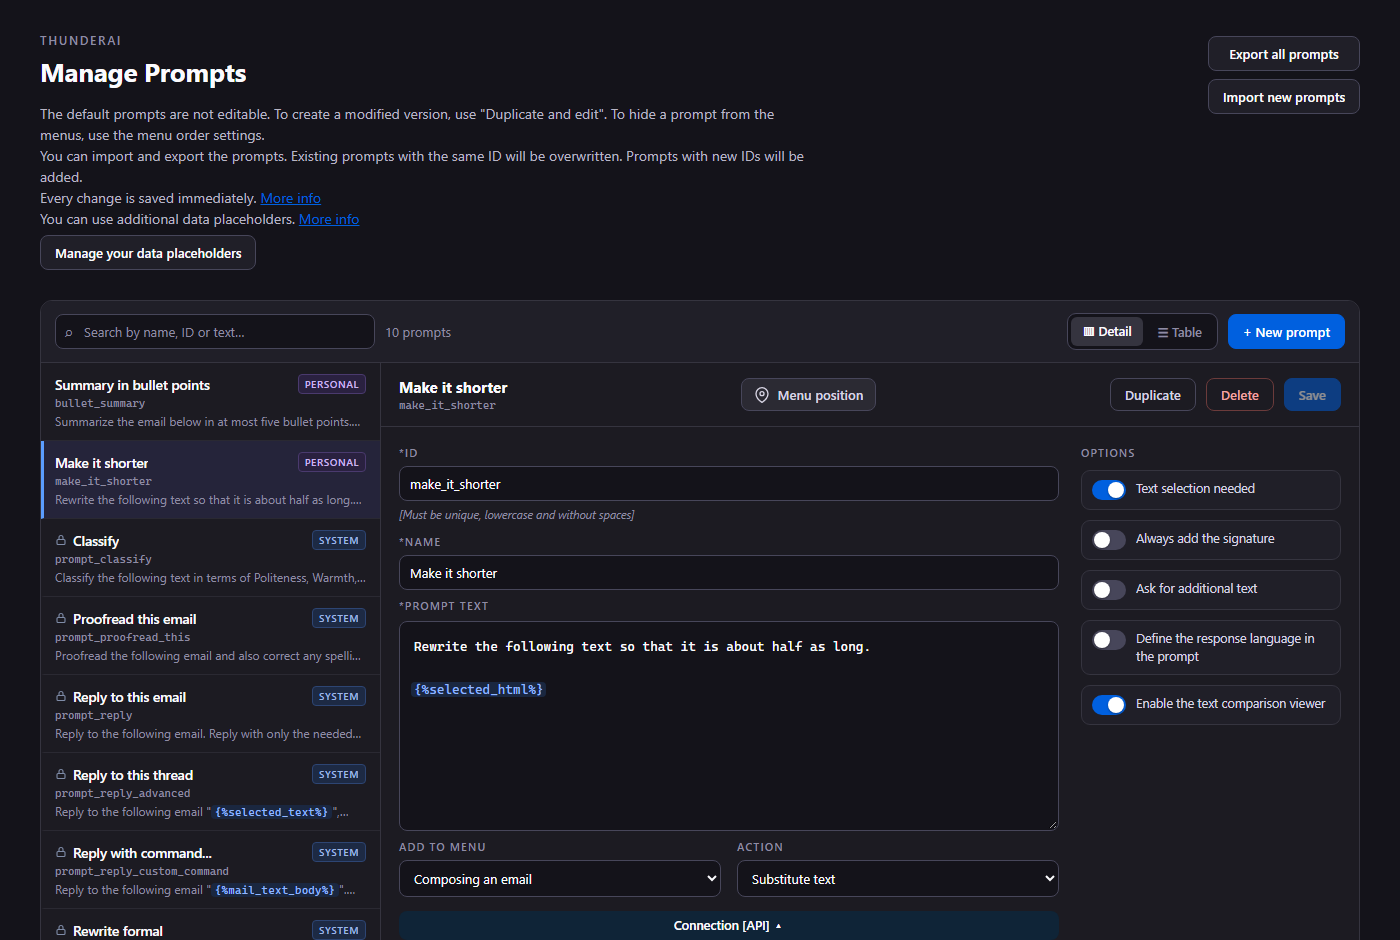
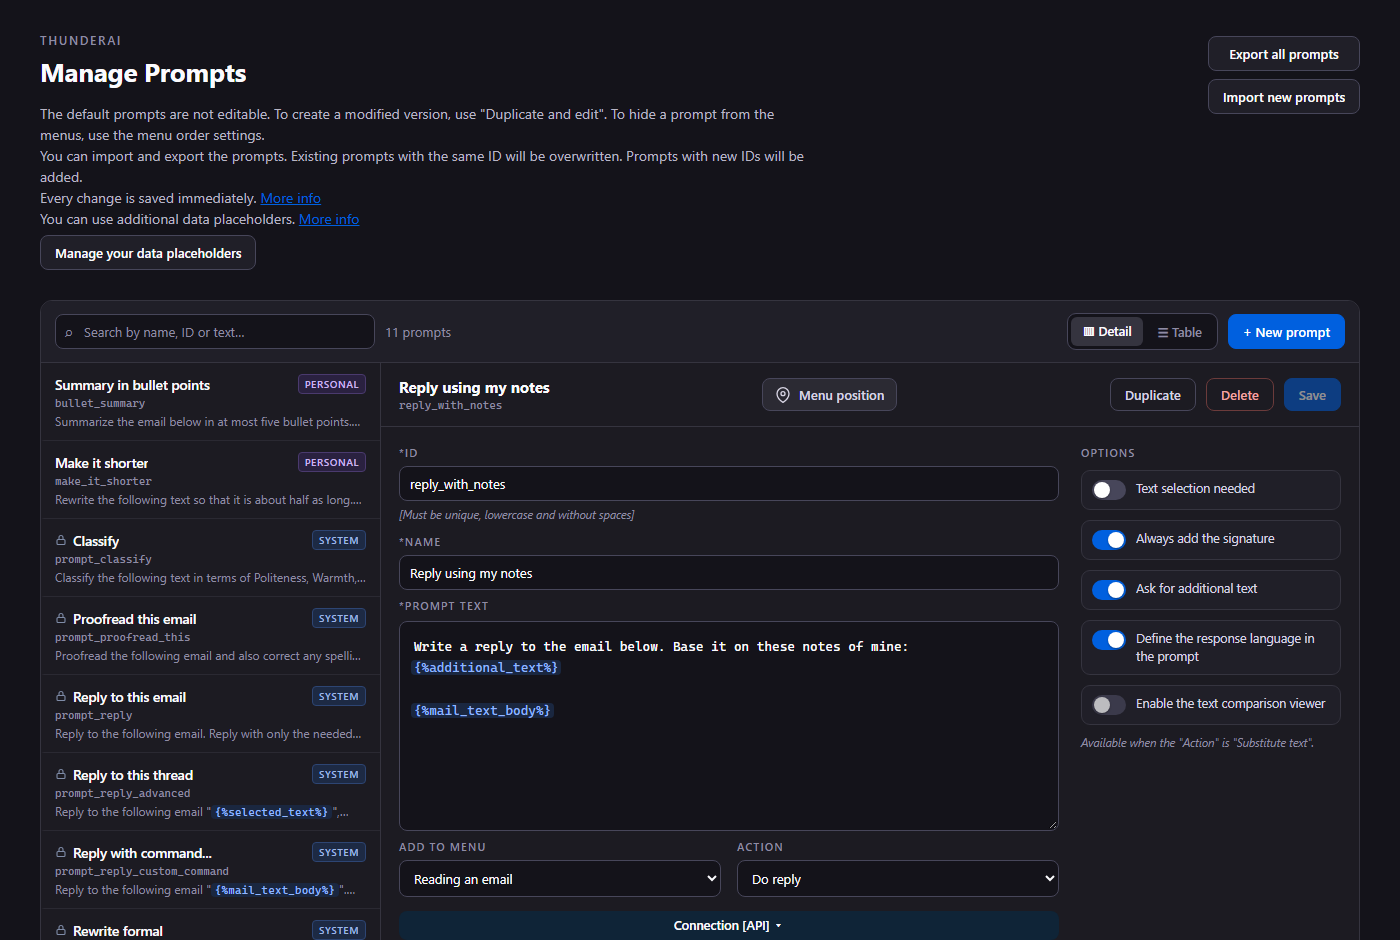
ThunderAI custom prompts page: screenshots and button images follow the site theme (light/dark versions, themed_screenshot shortcode)

diff --git a/themes/miczit_2027/layouts/shortcodes/ui_button.html b/themes/miczit_2027/layouts/shortcodes/ui_button.html
@@ -1,3 +1,10 @@
-{{- /* An add-on button shown inline in the text, at its real size. Usage: {{< ui_button "thunderai/customprompts/buttons/save.png" "Save" >}} (path under static/images/). */ -}}
-<img src="{{ .Site.BaseURL }}images/{{ .Get 0 }}" alt="{{ .Get 1 }}" title="{{ .Get 1 }}" style="display:inline;margin:0 0.1em;vertical-align:middle;">
+{{- /* An add-on button shown inline in the text, at its real size, in the site's current theme.
+       Usage: {{< ui_button "thunderai/customprompts/buttons/save.png" "Save" >}} (path under static/images/).
+       The light version is the same file in a light/ subfolder. */ -}}
+{{- $p := .Get 0 -}}
+{{- $light := printf "%s/light/%s" (path.Dir $p) (path.Base $p) -}}
+{{- $style := "display:inline;margin:0 0.1em;vertical-align:middle;" -}}
+<img loading="lazy" class="only-dark" src="{{ .Site.BaseURL }}images/{{ $p }}" alt="{{ .Get 1 }}" title="{{ .Get 1 }}" style="{{ $style | safeCSS }}">
+{{- /**/ -}}
+<img loading="lazy" class="only-light" src="{{ .Site.BaseURL }}images/{{ $light }}" alt="{{ .Get 1 }}" title="{{ .Get 1 }}" style="{{ $style | safeCSS }}">
 {{- /**/ -}}

diff --git a/themes/miczit_2027/layouts/shortcodes/themed_screenshot.html b/themes/miczit_2027/layouts/shortcodes/themed_screenshot.html
@@ -1,0 +1,7 @@
+{{- /* A screenshot in the site's current theme, linked to its full-size file.
+       Usage: {{< themed_screenshot "thunderai/customprompts/table-view.png" "Alt text" >}} (path under static/images/).
+       The light version is the same file in a light/ subfolder. */ -}}
+{{- $p := .Get 0 -}}
+{{- $light := printf "%s/light/%s" (path.Dir $p) (path.Base $p) -}}
+<a class="only-dark" href="{{ .Site.BaseURL }}images/{{ $p }}" target="_blank"><img loading="lazy" src="{{ .Site.BaseURL }}images/{{ $p }}" alt="{{ .Get 1 }}"></a>
+<a class="only-light" href="{{ .Site.BaseURL }}images/{{ $light }}" target="_blank"><img loading="lazy" src="{{ .Site.BaseURL }}images/{{ $light }}" alt="{{ .Get 1 }}"></a>

diff --git a/themes/miczit_2027/static/css/theme.css b/themes/miczit_2027/static/css/theme.css
@@ -446,6 +446,9 @@ a:hover { color: var(--accent-strong); }
 .content img.alignright { float: right; margin: 4px 0 12px 20px; }
 .content .img_center { width: 100%; text-align: center; }
 .content img.homepage_img { max-width: 100%; }
+/* an image in two versions, one per theme (shortcodes ui_button and themed_screenshot) */
+[data-theme="light"] .only-dark,
+html:not([data-theme="light"]) .only-light { display: none !important; }
 
 .content figure {
     margin: 1.6em 0;

diff --git a/CLAUDE.md b/CLAUDE.md
@@ -47,7 +47,7 @@ themes/miczit_2027/
 │   ├── partials/           head, head-extra, theme-init, header, footer, lang-switcher,
 │   │                       theme-toggle, title-split, ph-list-script
 │   └── shortcodes/         project shortcodes (page_title, list-thunderbird-pages, *_list, lang_*,
-│                           ui_button: an add-on button image inline in the text, at real size)
+│                           ui_button, themed_screenshot)
 └── static/
     ├── css/theme.css       dark tokens on :root, light tokens on [data-theme="light"]
     └── fonts/
@@ -69,6 +69,10 @@ themes/miczit_2027/
   (`body.home .page-shell::before`) needs this class. Areas on the photo use the fixed
   `--photo-ink` color, so the theme toggle does not change the home page.
 - Mobile breakpoint: 880px (one column below it).
+- Add-on screenshots come in two versions: the dark file, and the light one with the same name in a
+  `light/` subfolder. The `only-dark` / `only-light` classes in `theme.css` show the one that matches
+  the site theme. `ui_button` puts a button image in a line of text, at its real size (captured at 1x).
+  `themed_screenshot` puts a screenshot linked to its full-size file.
 
 ## Known quirks (not theme bugs)
 
